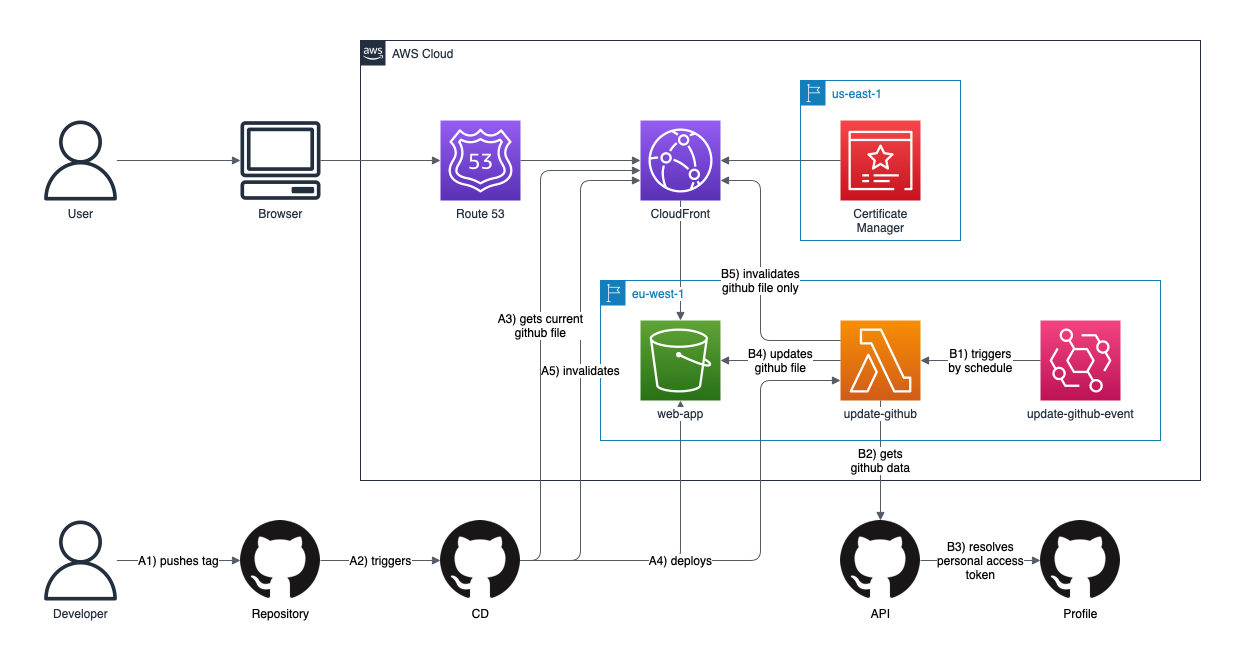
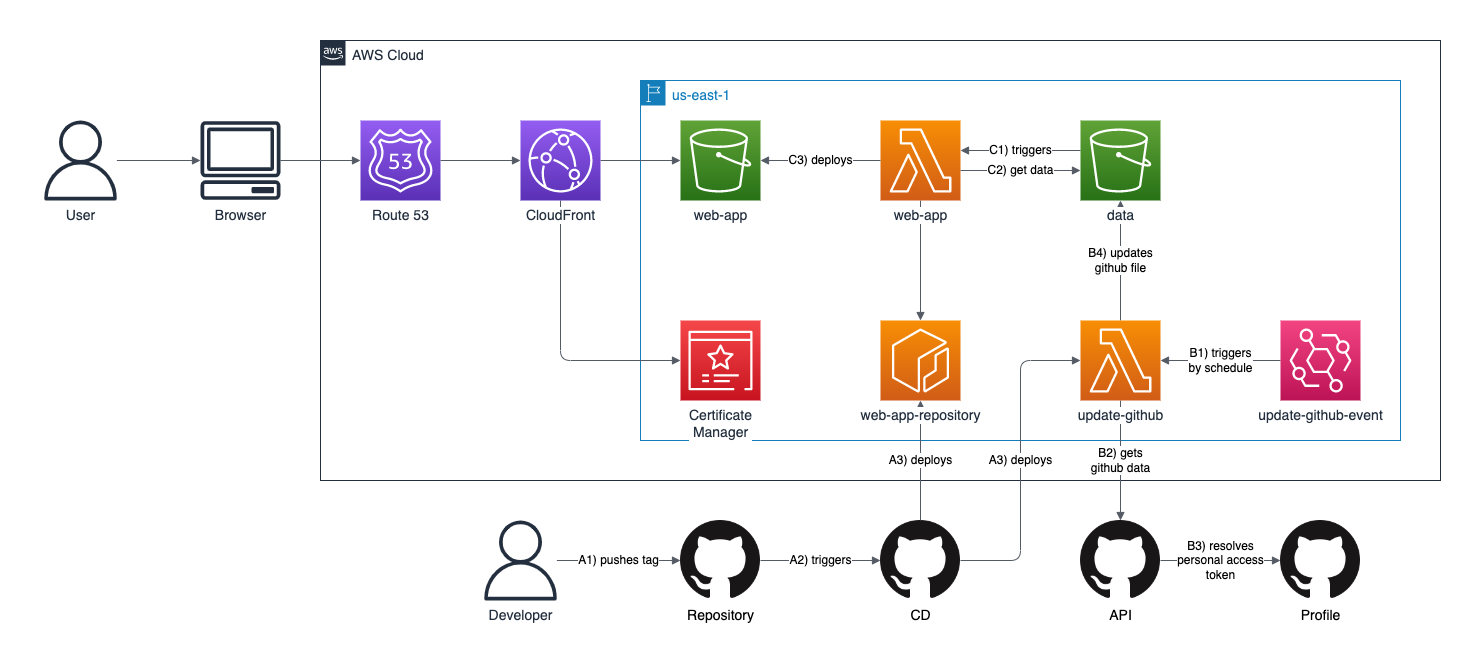
Update AWS Architecture Diagram, refactor deployFilesToS3

diff --git a/web-app/lambda/deployFilesToS3.js b/web-app/lambda/deployFilesToS3.js
@@ -1,14 +1,33 @@
+const { S3Object } = require('@loginov-rocks/loginov-rocks-shared');
 const fs = require('fs');
 const mime = require('mime');
 
-// TODO: Use S3Object from the Shared package.
-module.exports = (s3, bucketName, rootDirectoryPath, filesPaths) => (
-  Promise.all(filesPaths.map((filePath) => (
-    s3.putObject({
-      Body: fs.readFileSync(filePath),
-      Bucket: bucketName,
-      ContentType: mime.getType(filePath),
-      Key: filePath.substring(rootDirectoryPath.length + 1),
-    }).promise()
-  )))
-);
+module.exports = async (s3, bucketName, rootDirectoryPath, filesPaths) => {
+  const s3ListObjects = await s3.listObjects({ Bucket: bucketName }).promise();
+  const filesKeys = s3ListObjects.Contents.map(({ Key }) => Key);
+  const filesKeysToWrite = [];
+
+  const writeOperations = filesPaths.map((filePath) => {
+    const fileKey = filePath.substring(rootDirectoryPath.length + 1);
+    filesKeysToWrite.push(fileKey);
+
+    const data = fs.readFileSync(filePath);
+    const contentType = mime.getType(filePath);
+    const s3Object = new S3Object({ bucketName, fileKey, s3 });
+
+    return s3Object.write(data, { contentType });
+  });
+
+  console.log('Files keys to write:', filesKeysToWrite);
+
+  const filesKeysToDelete = filesKeys.filter((fileKey) => !filesKeysToWrite.includes(fileKey));
+  const batchDeleteOptions = filesKeysToDelete.map((fileKey) => ({ bucketName, fileKey }));
+  const batchDeleteOperation = S3Object.batchDelete(s3, batchDeleteOptions);
+
+  console.log('Files keys to delete:', filesKeysToDelete);
+
+  return Promise.all([
+    ...writeOperations,
+    batchDeleteOperation,
+  ]);
+};

diff --git a/web-app/lambda/index.js b/web-app/lambda/index.js
@@ -24,7 +24,7 @@ const s3 = new S3(s3Configuration);
 const cloudFrontInvalidation = new CloudFrontInvalidation({
   cloudFront,
   distributionId: process.env.WEB_APP_CLOUDFRONT_DISTRIBUTION_ID,
-  path: '/*',
+  path: process.env.WEB_APP_CLOUDFRONT_INVALIDATION_PATH,
 });
 
 const bucketName = process.env.LAMBDA_S3_BUCKET_NAME;
@@ -38,9 +38,10 @@ const stderr = (data) => {
   console.error('Stderr:', data);
 };
 
-// TODO: Remove unnecessary files from the S3 bucket.
 exports.handler = async (event) => {
   console.log('Event:', event);
+
+  console.log('Building...');
 
   const buildResult = await build(stdout, stderr);
 
@@ -48,15 +49,21 @@ exports.handler = async (event) => {
     throw new Error('Build failed');
   }
 
+  console.log('Collecting files paths...');
+
   const filesPaths = await collectFilesPaths(distDirectoryPath);
 
   if (filesPaths.length === 0) {
     throw new Error('No files paths collected');
   }
 
-  console.log('Files Paths:', filesPaths);
+  console.log('Files paths collected:', filesPaths);
+
+  console.log('Deploying files to S3...');
 
   await deployFilesToS3(s3, bucketName, distDirectoryPath, filesPaths);
+
+  console.log('Invalidating CloudFront...');
 
   await cloudFrontInvalidation.invalidate();
 

diff --git a/docs/Web-App-Lambda.md b/docs/Web-App-Lambda.md
@@ -11,14 +11,28 @@
     {
       "Sid": "VisualEditor0",
       "Effect": "Allow",
-      "Action": "s3:GetObject",
-      "Resource": "arn:aws:s3:::${DATA_S3_BUCKET_NAME}/*"
+      "Action": [
+        "s3:ListBucket",
+        "s3:GetObject"
+      ],
+      "Resource": [
+        "arn:aws:s3:::${DATA_S3_BUCKET_NAME}",
+        "arn:aws:s3:::${DATA_S3_BUCKET_NAME}/*"
+      ]
     },
     {
       "Sid": "VisualEditor1",
       "Effect": "Allow",
-      "Action": "s3:PutObject",
-      "Resource": "arn:aws:s3:::${WEB_APP_S3_BUCKET_NAME}/*"
+      "Action": [
+        "s3:ListBucket",
+        "s3:GetObject",
+        "s3:PutObject",
+        "s3:DeleteObject"
+      ],
+      "Resource": [
+        "arn:aws:s3:::${WEB_APP_S3_BUCKET_NAME}",
+        "arn:aws:s3:::${WEB_APP_S3_BUCKET_NAME}/*"
+      ]
     },
     {
       "Sid": "VisualEditor2",
